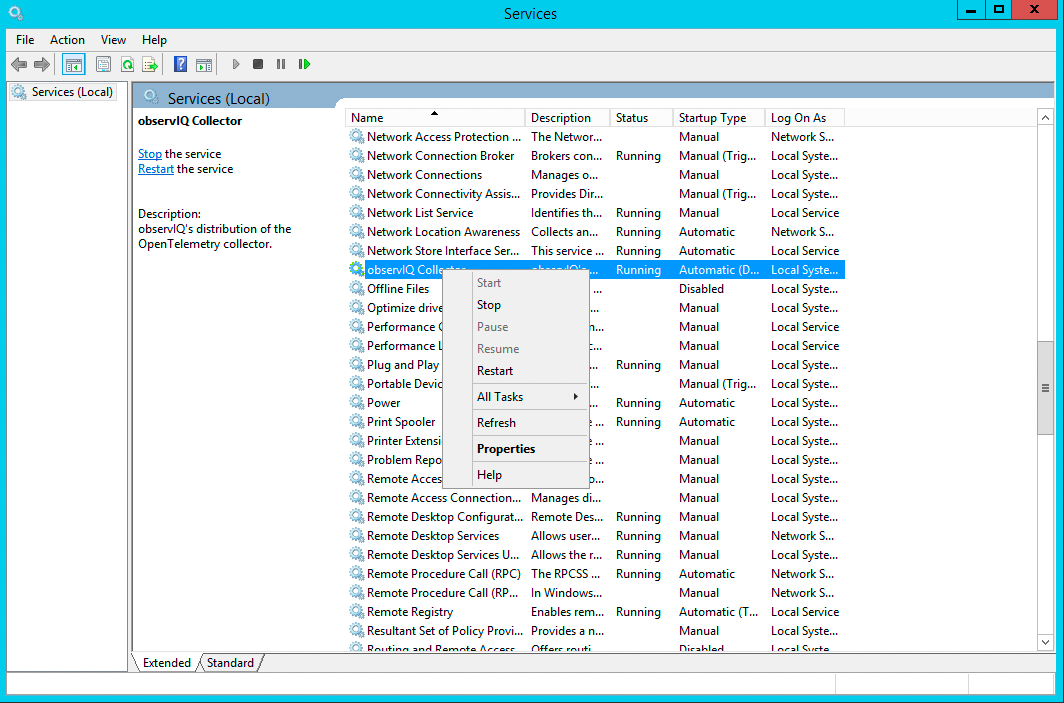
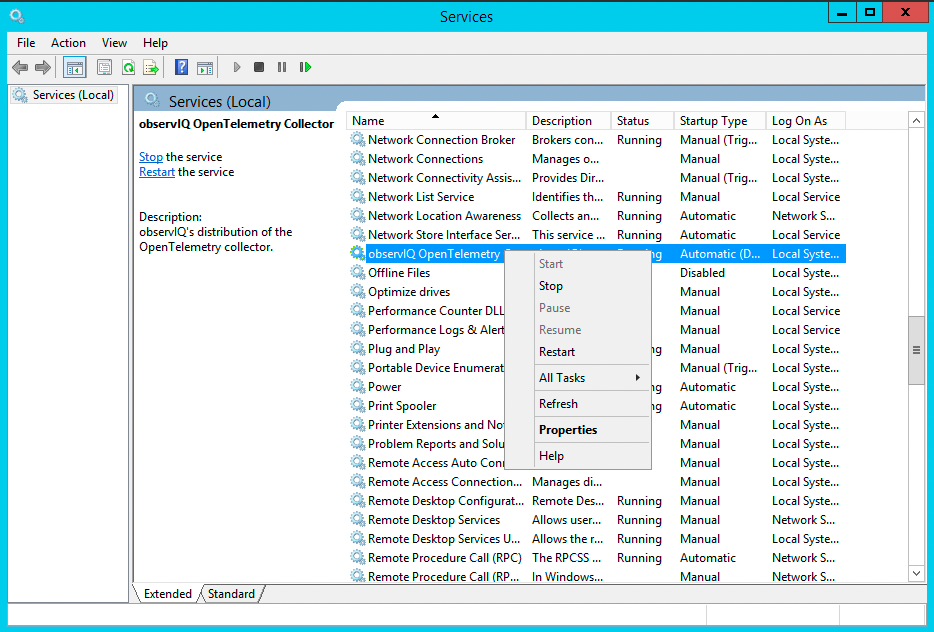
fix: Update Windows screenshots/docs for post-rebrand (#303)
* update windows screenshots/docs for post-rebrand

* update other instances of service name with friendly name

Changed region(s): [[0.0, 0.0, 1.0, 1.0]]

diff --git a/docs/installation-windows.md b/docs/installation-windows.md
@@ -27,7 +27,7 @@ To access the services dialog, press Win + R, enter `services.msc` into the Run 
 
 ![The run dialog](./screenshots/windows/launch-services.png)
 
-Locate the `observiq-otel-collector` service, right click the entry, and click "Restart" to restart the collector.
+Locate the "observIQ OpenTelemetry Collector" service, right click the entry, and click "Restart" to restart the collector.
 
 ![The services dialog](./screenshots/windows/stop-restart-service.png)
 
@@ -43,7 +43,7 @@ To access the services dialog, press Win + R, enter `services.msc` into the Run 
 
 ![The run dialog](./screenshots/windows/launch-services.png)
 
-Locate the `observiq-otel-collector` service, right click the entry, and click "Stop" to stop the collector.
+Locate the "observIQ OpenTelemetry Collector" service, right click the entry, and click "Stop" to stop the collector.
 
 ![The services dialog](./screenshots/windows/stop-restart-service.png)
 
@@ -59,7 +59,7 @@ To access the services dialog, press Win + R, enter `services.msc` into the Run 
 
 ![The run dialog](./screenshots/windows/launch-services.png)
 
-Locate the `observiq-otel-collector` service, right click the entry, and click "Start" to start the collector.
+Locate the "observIQ OpenTelemetry Collector" service, right click the entry, and click "Start" to start the collector.
 
 ![The services dialog](./screenshots/windows/start-service.png)
 
